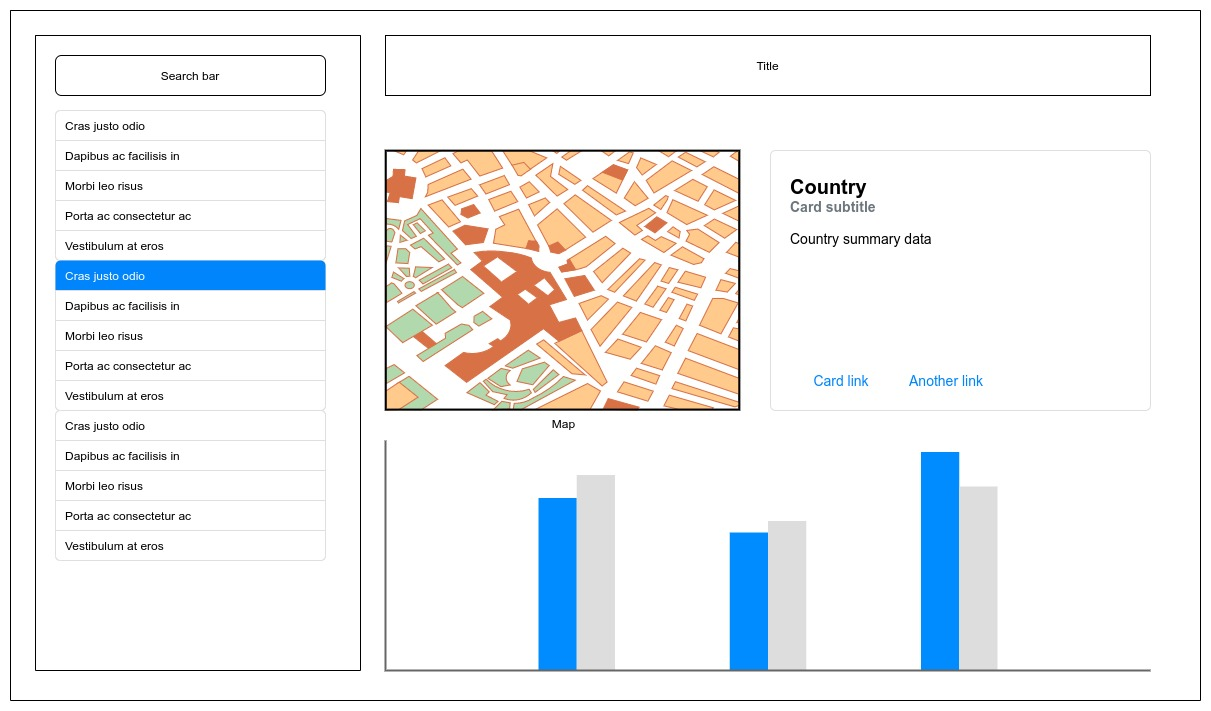
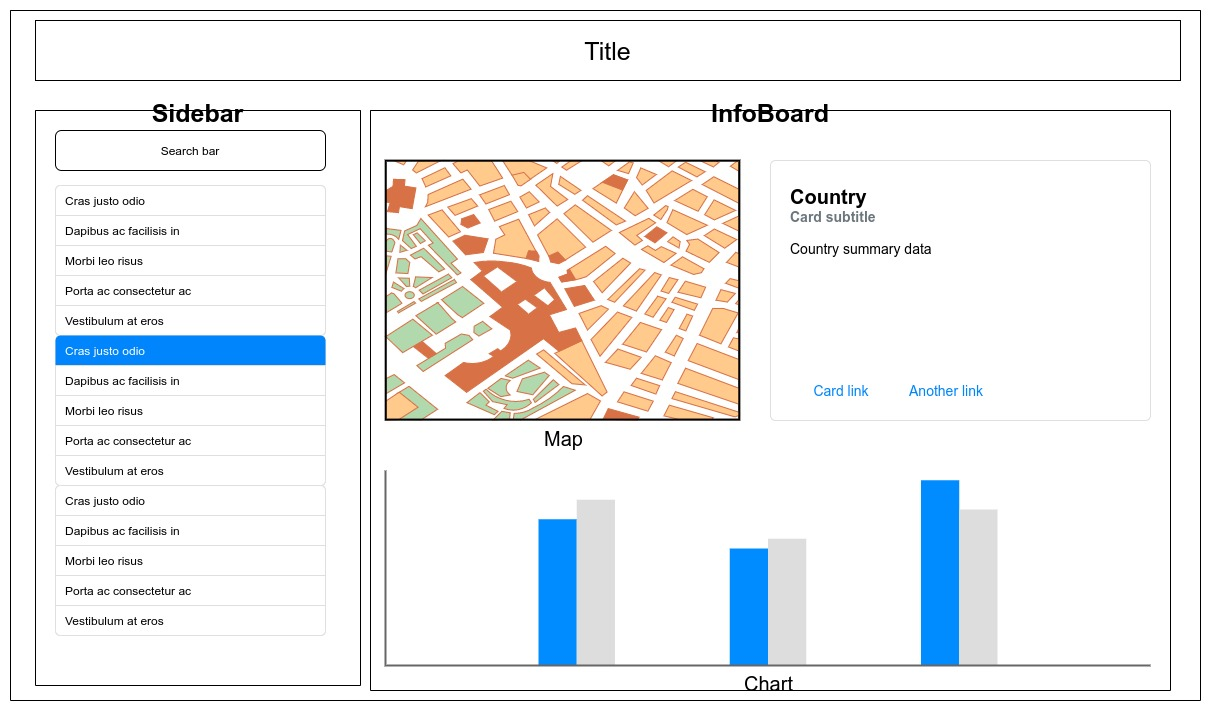
Updated README.md

diff --git a/README.md b/README.md
@@ -6,6 +6,40 @@ This application fetches data from [Covid-19-API](https://github.com/M-Media-Gro
 
 ## Methods
 
+### Components List
+
+|Component|Contains|ChildOf|
+|---------|--------|-------|
+|App|header, Sidebar, InfoBoard|none|
+|Sidebar|searchbar, countries[props]|App|
+|InfoBoard|Map, InfoCard, Chart|App|
+|Map|mapcontainer, geojson[local data, state data]|InfoBoard|
+|InfoCard|countrydata[api data, props.filter]|InfoBoard|
+|Chart|countrydata[api data, props.filter]|Infoboard|
+
+### Represented data
+
+- Sidebar
+    - list of countries derived from COVID-19 api countries list
+
+- InfoCard
+    - Country info from COVID-19 api
+        - Country name
+        - Population
+        - Area
+        - Confirmed cases
+        - Death cases
+        - Last updated
+
+- Map 
+    - Baselayer from OpenStreetMap
+    - Vector layer from processed geojson data derived from NaturalEarthData @50m_admin_0 level
+
+- Chart
+    - TBC
+
+
+
 ## Wireframe
 
 ![Wireframe Design](./wireframes/Mockup.jpg)
@@ -41,3 +75,7 @@ This application fetches data from [Covid-19-API](https://github.com/M-Media-Gro
 ## Acknowledgements
 
 Data is retrieved from [Covid-19-API](https://github.com/M-Media-Group/Covid-19-API)
+
+Supplementary geodata is obtained from [natural-earth-vector github repo](https://github.com/nvkelso/natural-earth-vector). 
+
+Map base layer is served from [OpenStreetMap](https://www.openstreetmap.org/)
